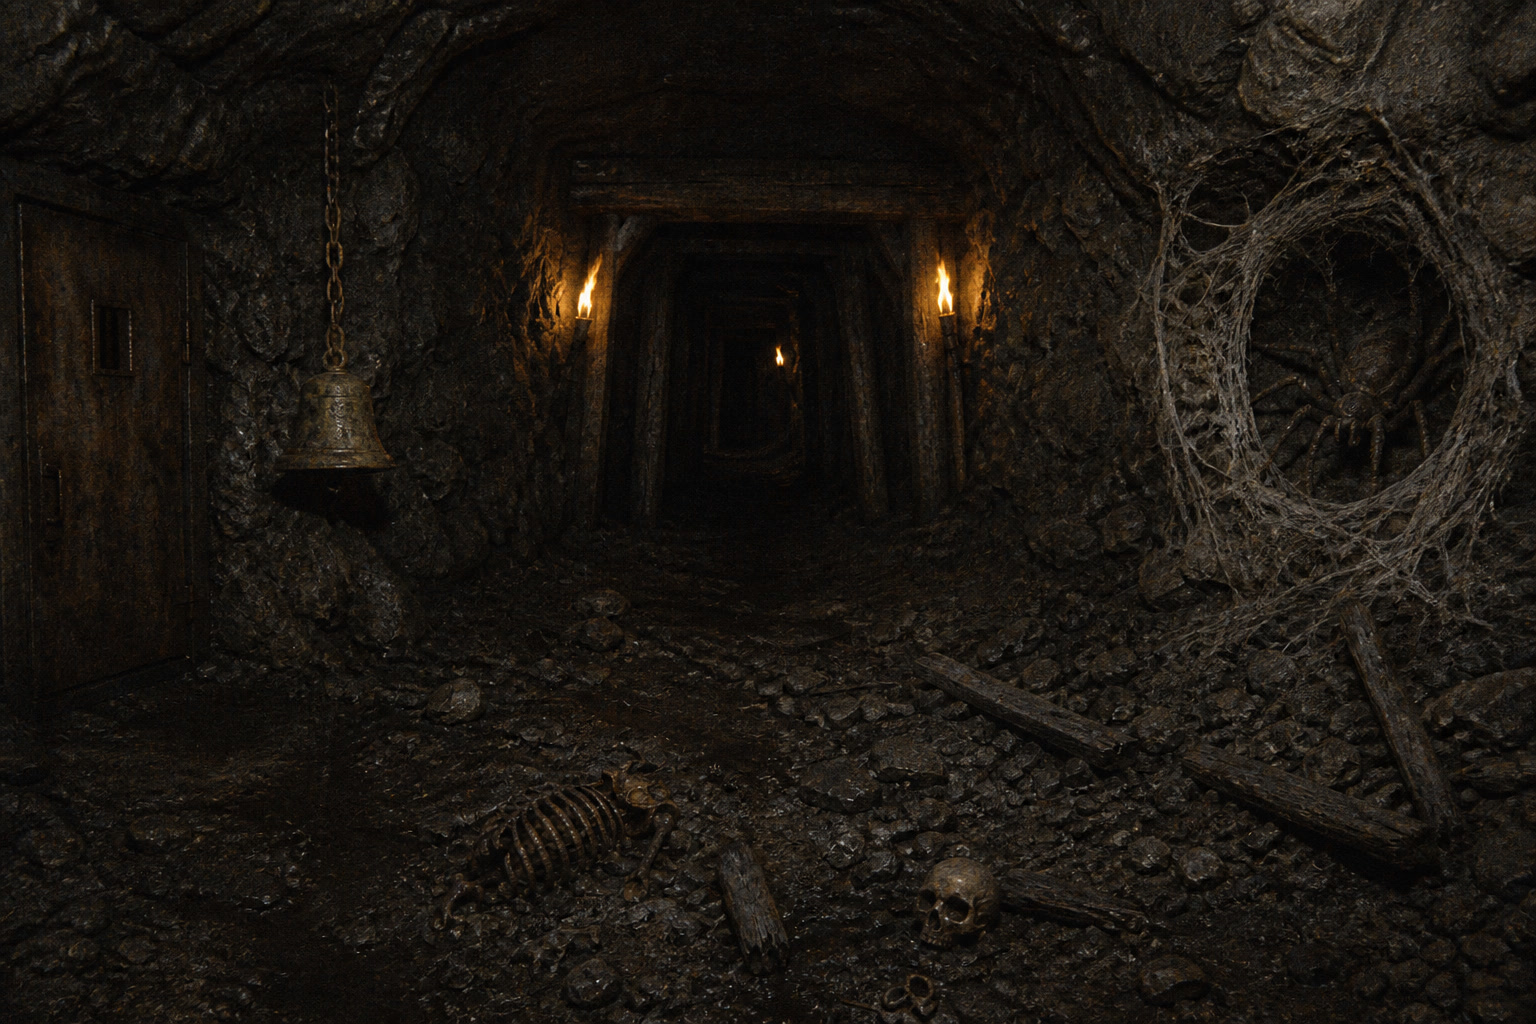
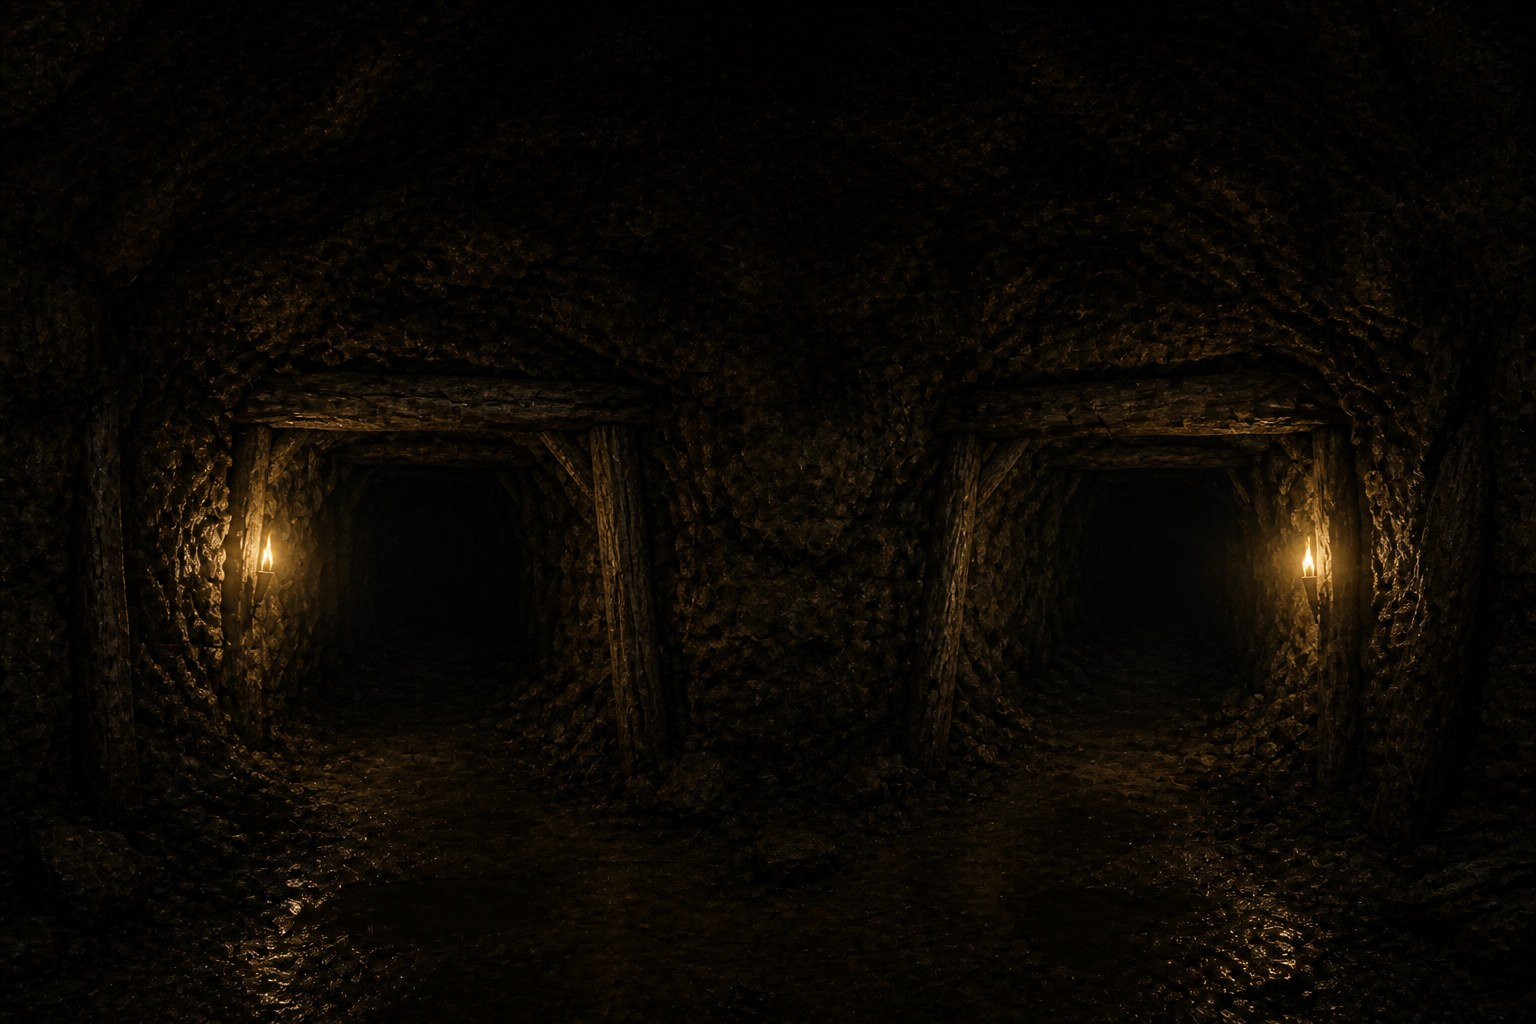
Keep every chapter plate a mystery, not a map.
Chapter II art no longer paints bronze, bell, or webs. Start log and Descend use the same mood lines as the plates.

diff --git a/index.html b/index.html
@@ -330,7 +330,7 @@ const FONT_QUOTE='"Cormorant Garamond",Palatino,Georgia,serif';
 
 /* ---------------------------- painted sprites (Baldur's Gate isometric) ---------------------------- */
 const SPR={};
-const ASSET_VER='65';
+const ASSET_VER='66';
 let SPLASH_STATE='loading';
 function assetUrl(src){
   const u=src+(src.indexOf('?')>=0?'&':'?')+'v='+ASSET_VER;
@@ -2680,7 +2680,7 @@ function makeChapter(n){
         spawnLairGroup(40.1, 70.2, {pack:[['warg',3]], spread:1.6, aggro:3.8});
         spawnLairGroup(66.2, 76.1, {pack:[['spiderHuge',1],['spider',2]], spread:1.4, aggro:3.2});
         spawnLairGroup(64.1, 46.2, {pack:[['orc',3]], spread:1.5, aggro:3.4});
-        say('The ruby cage opens on a four-way in living rock. Left, bronze and gems. Right, silk. Straight, goblin-talk.','#c9b895');
+        say((CH_INTRO[2]&&CH_INTRO[2].fl)||'The rock splits, and the dark does not choose for you.','#c9b895');
       }
       if(!L.flags.scouted&&Math.hypot(p.x-40,p.y-16)<4.4){ L.flags.scouted=1; L.objs[0].d=1; }
       if(dist(p,L.camp)<7.2) G.ents.forEach(e=>{ if(e.kind==='goblin'&&e.team==='foe'&&!e.dead) e.aggro=99; });
@@ -3553,11 +3553,7 @@ function startChapter(n){
     G.scene=loadSnap.scene==='camp'?'camp':'play';
     G.introT=99; G.paused=false;
   }
-  say(({1:'Your dwarf brothers were killed in the cave-in. The tunnel behind you collapsed. You are alone.',
-    2:'The cage opens on a four-way cavern. Left, a gem-bronze door. Right, webs. Straight, goblins with a bound gnome.',
-    3:'Purple light. The stone sweats.',
-    4:'Cut stone. Dwarf work. Very old.',
-    5:'A brother\u2019s blood, still bright after nine hundred years.'}[n])||'Deeper still.','#c9b895');
+  say((CH_INTRO[n]&&CH_INTRO[n].fl)||'Deeper still.','#c9b895');
 }
 function pinFallenKin(){
   const L=G.lvl;
@@ -10822,7 +10818,7 @@ function tryEnterPlay(){
   else if(!G.taught.move){ G.taught.move=1; hint('Drag the left side of the screen to walk',6); }
   else if(!G.taught.dig){ G.taught.dig=1; hint('Shovel: face solid rock. One square foot per 10 minutes.',6); }
   else if(!G.taught.herb){ G.taught.herb=1; hint('Plant icon (F): notice plants, roll the herb table, then recover that herb vs its chance.',6); }
-  else if(G.ch===2&&!G.taught.floor){ G.taught.floor=1; hint('Four ways. Left bronze and a bell. Straight goblins carry Noz. Right, the Spider Lord.',6); }
+  else if(G.ch===2&&!G.taught.floor){ G.taught.floor=1; }
   return true;
 }
 function goldTitleLine(g, txt, y, size){

diff --git a/src/ui/BookIPresentation.test.js b/src/ui/BookIPresentation.test.js
@@ -38,6 +38,14 @@ assert(/Two went in\. One came back/.test(block), 'Chapter V flavor does not nam
 assert(!/bronze and a bell/.test(block) && !/goblins/.test(block) && !/webs/.test(block),
   'no chapter flavor lists what waits in a direction');
 assert(!/You are MACAR/.test(block), 'chapter plates do not name the player');
+assert(/say\(\(CH_INTRO\[n\]&&CH_INTRO\[n\]\.fl\)/.test(html),
+  'chapter start log uses the same mystery plate line, not a map legend');
+assert(!/The cage opens on a four-way cavern/.test(html) && !/Left, a gem-bronze door/.test(html),
+  'no leftover Chapter II compass say');
+assert(!/hint\('Four ways\. Left bronze/.test(html),
+  'Descend no longer lectures the Chapter II map');
+assert(!/Left, bronze and gems/.test(html) && !/Straight, goblin-talk/.test(html),
+  'Chapter II first-tick say is not a compass list');
 
 const meta=html.match(/const CH_META=\{[\s\S]*?\nconst CH_INTRO/);
 assert(!!meta, 'CH_META copy table exists');

diff --git a/src/ui/Ch1RubbleLoad.test.js b/src/ui/Ch1RubbleLoad.test.js
@@ -45,7 +45,7 @@ assert(!/else if\(okTex\)\{/.test(html),
   'generated TEX diamonds are not a first-frame floor/wall fallback');
 assert(/tile_floor_mine\.png\?v=60/.test(html) && /tile_wall_worked\.png\?v=60/.test(html),
   'mine floor and worked wall are preloaded before first present');
-assert(/ASSET_VER='65'/.test(html), 'asset cache-bust matches the bas-relief dwarf face');
+assert(/ASSET_VER='66'/.test(html), 'asset cache-bust matches the mystery Chapter II plate');
 assert(/function scatterBurialRubble\(/.test(html) && /fallen:1/.test(html) && /k:'dust'/.test(html),
   'cave-in entry scatters extra timber, stone, and dust around the burial');
 assert(/function drawFallenBeam\(/.test(html) && /function drawFloorDust\(/.test(html),
